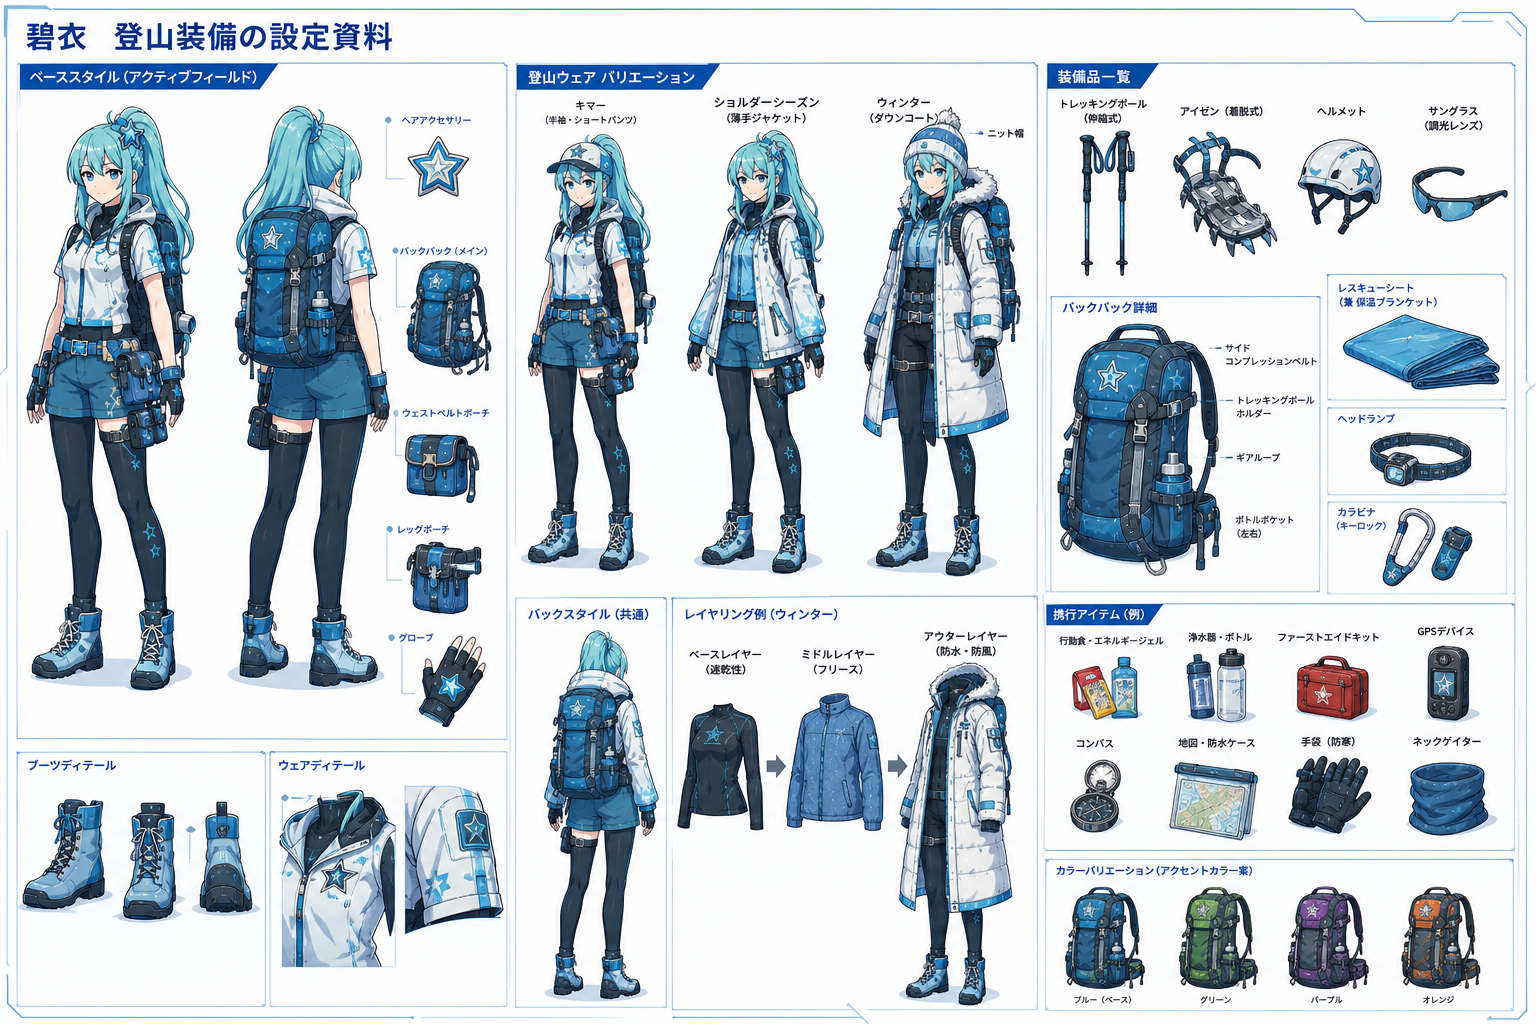
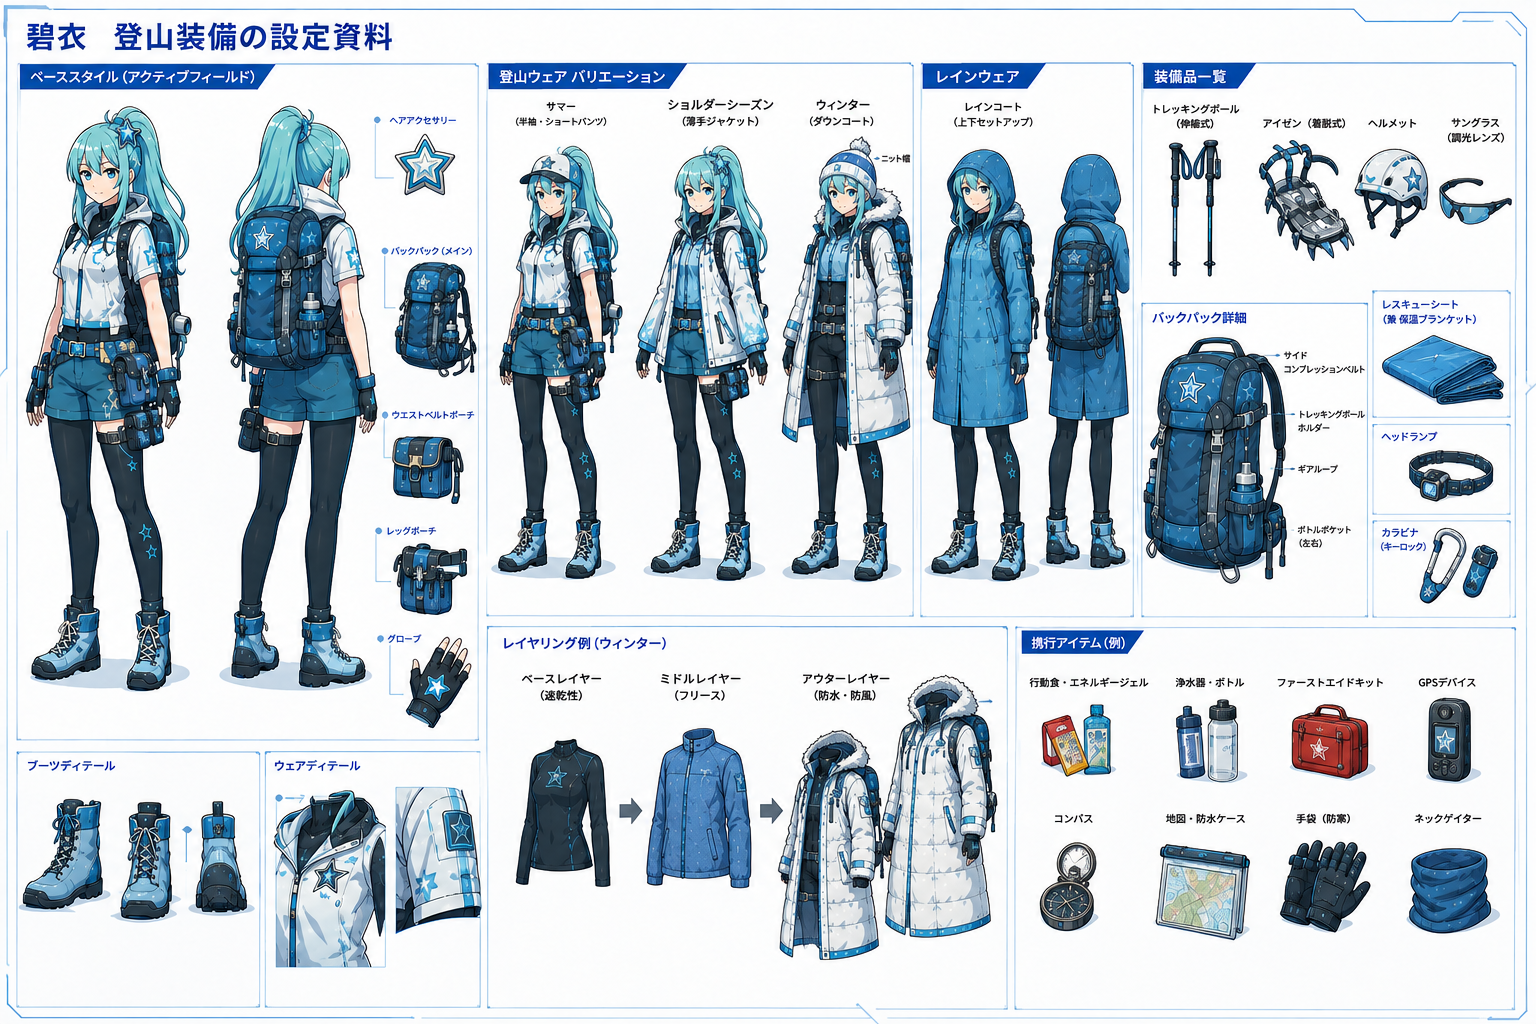
outfit_b の設定資料にレインウェアを追加し索引を実態に合わせる
1. 設定資料画像の差し替え
    - assets/images/outfit_b.png を、レインウェア（レインコートの上下セットアップ・前後2面図）を収録した版へ差し替え
    - 登山ウェア バリエーションのラベル表記を修正（サマー）
    - レイヤリング例のアウターレイヤーを衣服単体の前後2面図へ変更
    - バックスタイル（共通）とカラーバリエーション（アクセントカラー案）のパネルを削除

2. 画像ガイドラインの記述を差し替え後の資料に合わせて調整
    - セクション5の索引から、実在しない季節仕様「レインウェア」と、資料から消えた「サブバックパックの色違い」の記述を除去
    - 季節仕様をサマー／ショルダーシーズン／ウィンターの3種に、レインウェアを別立てのバリエーションとして記載
    - セクション3-1の衣装の使い分けに、雨天・雨予報の山行でレインウェアを採る旨を追記

diff --git a/assets/image_guideline.md b/assets/image_guideline.md
@@ -66,6 +66,7 @@
     * どちらの場合も `scene_category` は `hike` になり得ます。情景カテゴリではなく活動時間で衣装を決めてください
     * 3時間前後で判断がつかない場合は、ヘルメット・トレッキングポール・テントなど重い装備を要する行程かどうかを併せて見てください（要するなら `outfit_b`）
   * **`outfit_e` と `outfit_d` の境界**: 自室で寛ぐ装いは `outfit_d` です。ただし**外泊先（前泊の宿など）で寛ぐ情景**は自室ではないため、`outfit_e` の「リカバリー・移動着」が合います。
+  * **雨天の山行の衣装**: 雨または雨予報の山行を描くときは、`outfit_b` の「レインウェア」（レインコートの上下セットアップ）を採ります。季節仕様（サマー／ショルダーシーズン／ウィンター）とは別立てのバリエーションのため、季節仕様と重ねず単独で名指ししてください。
 * **登山日の天候への眼差し**: 碧衣は登山と空の機嫌を強く結び付けて見守る性質を持ちます。当日や近日に登山予定があり、天気予報が芳しくなかったり不安定だったりする場合は、窓越しに空を見上げる、ルリと雲行きを伺う、地図を広げて思案する、といった所作をシーン候補として検討してください。これは強い制約ではなく、碧衣のキャラクター性を画に静かに滲ませるための例です。
 
 ## 4. 登場人物の構成
@@ -83,7 +84,7 @@
 オペレーションウェア（サイバー／データオペレーター）。ベーススタイルとユニット展開スタイル、装備品一覧（データドローン・ホログラフディスプレイ・ポータブルデータタワーなど）、レイヤリング例・各部ディテール・携行アイテム例を収録。配色は水色と白＋ネオンブルー。
 
 ### outfit_b.png（碧衣 登山装備の設定資料）
-登山装備（アクティブフィールド）。ベーススタイルと季節仕様（ショルダーシーズン／レインウェア／ウィンター）、装備品一覧（トレッキングポール・ヘルメットなど）、バックパック詳細・レイヤリング例・携行アイテム例・サブバックパックの色違いを収録。装備の各所に星のモチーフ。
+登山装備（アクティブフィールド）。ベーススタイル（前後2面図）と季節仕様（サマー／ショルダーシーズン／ウィンター）、季節仕様とは別立てのレインウェア（レインコートの上下セットアップ・前後2面図）、装備品一覧（トレッキングポール・アイゼン・ヘルメット・サングラス）、バックパック詳細・レイヤリング例（ウィンター）・携行アイテム例を収録。装備の各所に星のモチーフ。
 
 ### outfit_c.png（碧衣 デイリーカジュアルの設定資料）
 デイリーカジュアル。基本スタイル（オフショルニット＋デニムショートパンツ）と四季別コーデ、アクセサリー・持ち歩きアイテム・シューズ／トップスバリエーション・室内イメージを収録。星柄のモチーフがバッグや小物に配置。
